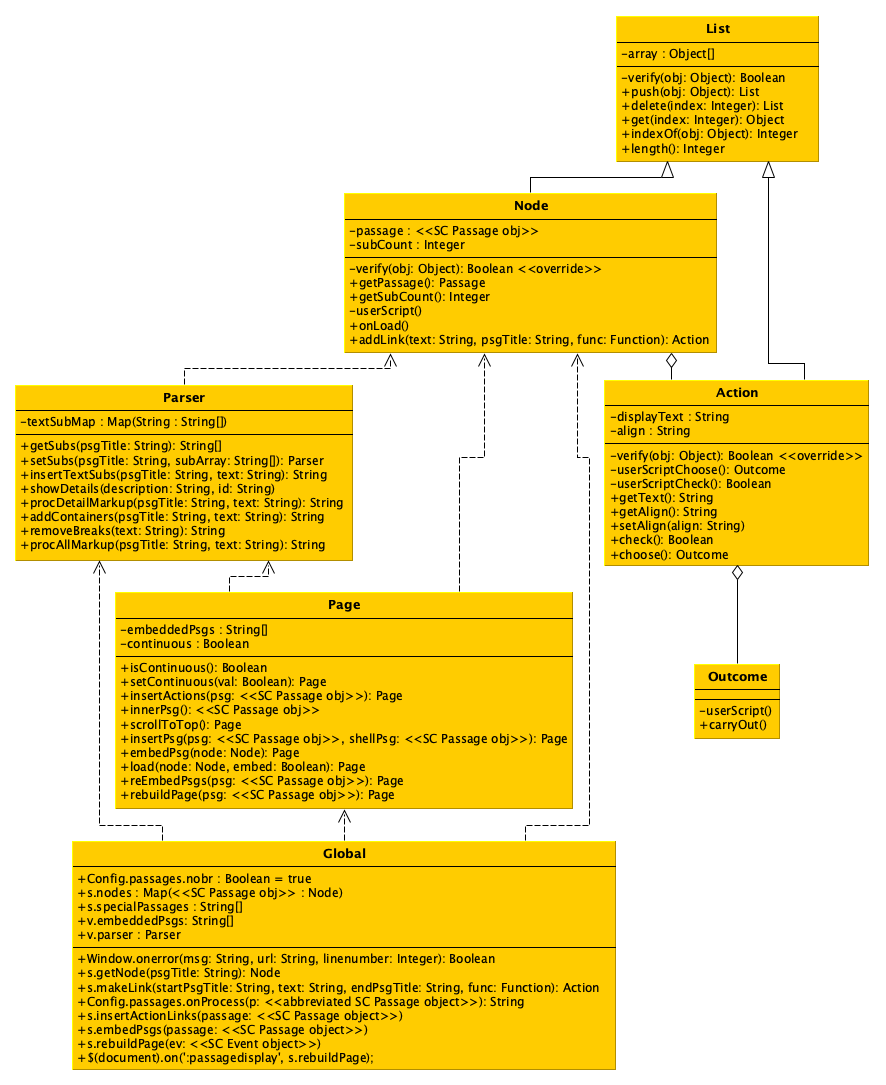
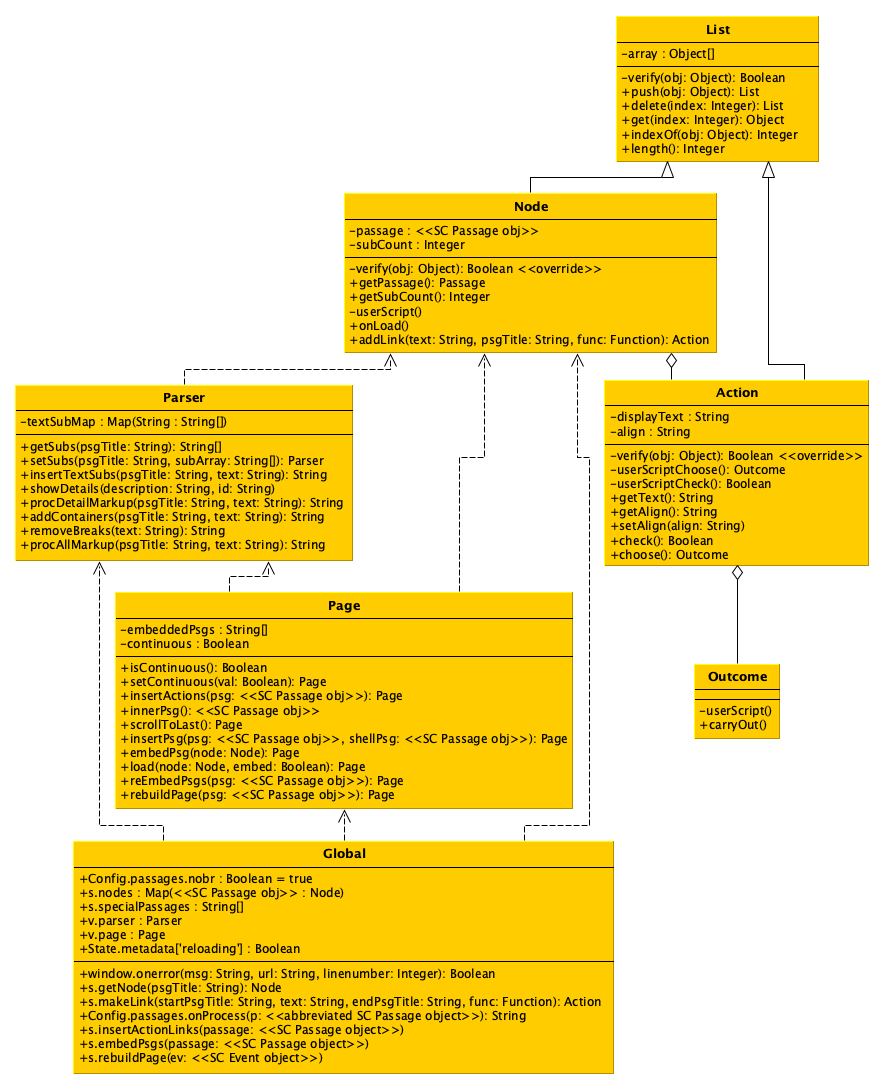
version 0.2.7
see change log

diff --git a/bear-fight.html b/bear-fight.html
@@ -342,9 +342,6 @@ s.specialPsgs = [
     'StorySubtitle', 'StoryTitle'
 ];
 
-v.embeddedPsgs = []; // list of embedded passage titles (see
-                     // `s.Node.load()` below)
-
 s.Node = function(psgTitle, subCount, func) {
     /*
     A `Node` object is like a wrapper around a passage. It contains the
@@ -434,8 +431,7 @@ s.Node.prototype.getSubCount = function() {
 }
 
 s.Node.prototype.onLoad = function() {
-    this._userScript();
-    return;
+    return this._userScript();
 }
 
 s.Node.prototype.addLink = function(text, psgTitle, func) {
@@ -880,6 +876,7 @@ s.Page.prototype.insertActions = function(psg) {
             );
         }
     }
+    return this;
 }
 
 s.Page.prototype.innerPsg = function() {
@@ -896,14 +893,14 @@ s.Page.prototype.innerPsg = function() {
     return psg;
 }
 
-s.Page.prototype.scrollToTop = function() {
+s.Page.prototype.scrollToLast = function() {
     /*
     Scrolls to put the innermost passage at the top.
     */
-    $('html').animate({
+    $('html, body').animate({
         scrollTop: $('#' + this.innerPsg().domId + '-body').position().top
     }, 0);
-    return;
+    return this;
 }
 
 s.Page.prototype.insertPsg = function(psg, shellPsg) {
@@ -918,7 +915,7 @@ s.Page.prototype.insertPsg = function(psg, shellPsg) {
         '<p style="text-align:center">****</p>' +
         v.parser.procAllMarkup(psg.title, psg.text)
     );
-    return;
+    return this;
 }
 
 s.Page.prototype.embedPsg = function(node) {
@@ -941,10 +938,10 @@ s.Page.prototype.embedPsg = function(node) {
     $('#' + latestPsg.domId + '-actions').empty();
     this.insertPsg(nodePsg, latestPsg);
     this.insertActions(nodePsg);
-    this.scrollToTop();
+    this.scrollToLast();
     this._embeddedPsgs.push(nodePsg.title);
     State.create(State.passage);
-    return;
+    return this;
 }
 
 s.Page.prototype.load = function(node, embed) {
@@ -961,18 +958,18 @@ s.Page.prototype.load = function(node, embed) {
     var nodePsg = node.getPassage();
     if (embed) {
         this.embedPsg(node);
-        return;
+        return this;
     } else {
         this._embeddedPsgs = [];
         Engine.play(nodePsg.title);
-        return;
+        return this;
     }
 }
 
 s.Page.prototype.reEmbedPsgs = function(psg) {
     /*
     Re-embeds embedded passages when the given main containing passage
-    renders.
+    object renders.
     */
     var currentPsg = psg;
     var nextPsg;
@@ -981,23 +978,23 @@ s.Page.prototype.reEmbedPsgs = function(psg) {
         this.insertPsg(nextPsg, currentPsg);
         currentPsg = nextPsg;
     }
-    return;
+    return this;
 }
 
 s.Page.prototype.rebuildPage = function(psg) {
     /*
-    To be run after the main containing passage renders. Re-embeds
-    embedded passages.  Inserts action links into last embedded passage,
-    then scrolls so that the last embedded passage is the first thing
-    visible.
+    To be run after the given main containing passage object renders.
+    Re-embeds embedded passages.  Inserts action links into last
+    embedded passage, then scrolls so that the last embedded passage is
+    the first thing visible.
 
     @param {SC Passage object} psg
     */
     var currentPsg = this.innerPsg();
     this.reEmbedPsgs(psg);
     this.insertActions(currentPsg);
-    this.scrollToTop();
-    return;
+    this.scrollToLast();
+    return this;
 }
 /* twine-user-script #8: "8000-Global.js" */
 /*
@@ -1007,7 +1004,6 @@ from Node.js:
     s.nodes : Map(<<SC Passage obj>> : Node)
     s.getNode(psgTitle: String): Node
     s.specialPassages : String[]
-    v.embeddedPsgs : String[]
 */
 
 Config.passages.nobr = true; // sets all passages to `nobr`
@@ -1049,8 +1045,25 @@ Config.passages.onProcess = function (p) {
 
 v.page = new s.Page();
 
+$(window).on('beforeunload', function(){
+    State.metadata.set('reloading', true);
+    return;
+});
+
 s.rebuildPage = function(ev) {
-    v.page.rebuildPage(ev.passage);
+    /*
+    Pauses before rebuilding page if page was just reloaded. Otherwise,
+    the scrollToLast method executes too soon and has no effect.
+    */
+    if (State.metadata.get('reloading')) {
+        setTimeout(function() {
+            v.page.rebuildPage(ev.passage);
+            return;
+        }, 500);
+        State.metadata.set('reloading', false);
+    } else {
+        v.page.rebuildPage(ev.passage);
+    }
     return;
 }
 

diff --git a/src/javascript/0070-Page.js b/src/javascript/0070-Page.js
@@ -102,11 +102,11 @@ s.Page.prototype.innerPsg = function() {
     return psg;
 }
 
-s.Page.prototype.scrollToTop = function() {
+s.Page.prototype.scrollToLast = function() {
     /*
     Scrolls to put the innermost passage at the top.
     */
-    $('html').animate({
+    $('html, body').animate({
         scrollTop: $('#' + this.innerPsg().domId + '-body').position().top
     }, 0);
     return this;
@@ -147,7 +147,7 @@ s.Page.prototype.embedPsg = function(node) {
     $('#' + latestPsg.domId + '-actions').empty();
     this.insertPsg(nodePsg, latestPsg);
     this.insertActions(nodePsg);
-    this.scrollToTop();
+    this.scrollToLast();
     this._embeddedPsgs.push(nodePsg.title);
     State.create(State.passage);
     return this;
@@ -202,6 +202,6 @@ s.Page.prototype.rebuildPage = function(psg) {
     var currentPsg = this.innerPsg();
     this.reEmbedPsgs(psg);
     this.insertActions(currentPsg);
-    this.scrollToTop();
+    this.scrollToLast();
     return this;
 }

diff --git a/src/javascript/8000-Global.js b/src/javascript/8000-Global.js
@@ -5,7 +5,6 @@ from Node.js:
     s.nodes : Map(<<SC Passage obj>> : Node)
     s.getNode(psgTitle: String): Node
     s.specialPassages : String[]
-    v.embeddedPsgs : String[]
 */
 
 Config.passages.nobr = true; // sets all passages to `nobr`
@@ -47,8 +46,25 @@ Config.passages.onProcess = function (p) {
 
 v.page = new s.Page();
 
+$(window).on('beforeunload', function(){
+    State.metadata.set('reloading', true);
+    return;
+});
+
 s.rebuildPage = function(ev) {
-    v.page.rebuildPage(ev.passage);
+    /*
+    Pauses before rebuilding page if page was just reloaded. Otherwise,
+    the scrollToLast method executes too soon and has no effect.
+    */
+    if (State.metadata.get('reloading')) {
+        setTimeout(function() {
+            v.page.rebuildPage(ev.passage);
+            return;
+        }, 500);
+        State.metadata.set('reloading', false);
+    } else {
+        v.page.rebuildPage(ev.passage);
+    }
     return;
 }
 

diff --git a/change-log.html b/change-log.html
@@ -265,6 +265,14 @@ pre[data-line] .line-highlight[data-end]:after {
       <div class="mume markdown-preview  ">
       <h1 class="mume-header" id="change-log">Change Log</h1>
 
+<h2 class="mume-header" id="version-027">Version 0.2.7</h2>
+
+<ul>
+<li>Deleted unused variable <code>v.embeddedPsgs</code>.</li>
+<li>Changed <code>html</code> to <code>html, body</code> in scrolling animation to support Safari.</li>
+<li>Renamed <code>Page.scrollToTop</code> to <code>scrollToLast</code>.</li>
+<li>Added metadata to track if the page is being reloaded. If reloading, inserted a pause before rebuilding the page during the <code>:passagedisplay</code> event. This is to prevent the <code>scrollToLast</code> method from firing too early, and thereby having no effect.</li>
+</ul>
 <h2 class="mume-header" id="version-026">Version 0.2.6</h2>
 
 <ul>

diff --git a/src/javascript/0050-Node.js b/src/javascript/0050-Node.js
@@ -16,9 +16,6 @@ s.specialPsgs = [
     'StorySubtitle', 'StoryTitle'
 ];
 
-v.embeddedPsgs = []; // list of embedded passage titles (see
-                     // `s.Node.load()` below)
-
 s.Node = function(psgTitle, subCount, func) {
     /*
     A `Node` object is like a wrapper around a passage. It contains the

diff --git a/change-log.md b/change-log.md
@@ -4,6 +4,13 @@ title: Change Log
 
 # Change Log
 
+## Version 0.2.7
+
+* Deleted unused variable `v.embeddedPsgs`.
+* Changed `html` to `html, body` in scrolling animation to support Safari.
+* Renamed `Page.scrollToTop` to `scrollToLast`.
+* Added metadata to track if the page is being reloaded. If reloading, inserted a pause before rebuilding the page during the `:passagedisplay` event. This is to prevent the `scrollToLast` method from firing too early, and thereby having no effect.
+
 ## Version 0.2.6
 
 * Moved `load()` method to `Page` object. Added `onLoad()` method to `Node` for storing the user script.
